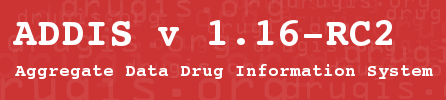
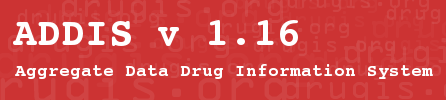
Automated changes for 1.16

Changed region(s): [[0.6704, 0.18, 0.9036, 0.48]]

diff --git a/installer/src/izpack/README.html b/installer/src/izpack/README.html
@@ -15,6 +15,12 @@ modern operating systems ship with a suitable JRE.</p>
 
 <h2>Versions</h2>
 
+<p>1.16: Drug treatments can now be stratified by dose and dosing type with 
+  the new 'treatment' functionality. Dose stratifications can be used in network
+  meta-analyses and pairwise meta-analyses. Added hypertension example 
+  data set. Allow importing of results from clinicaltrials.gov (experimental). 
+  Fixed bugs which could lead to data loss.</p>
+
 <p>1.14.1: Bugfix release. </p>
 
 <p>1.14: Network meta-analysis results can now be saved in the ADDIS data
